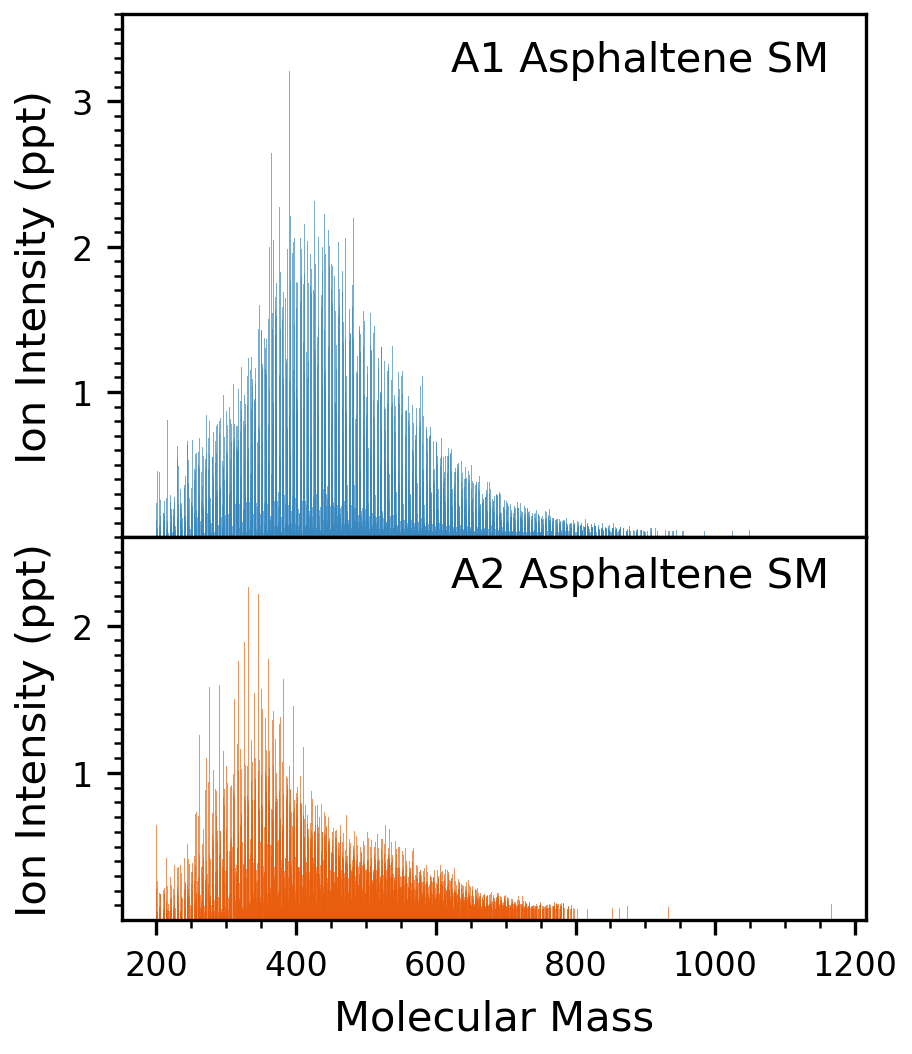
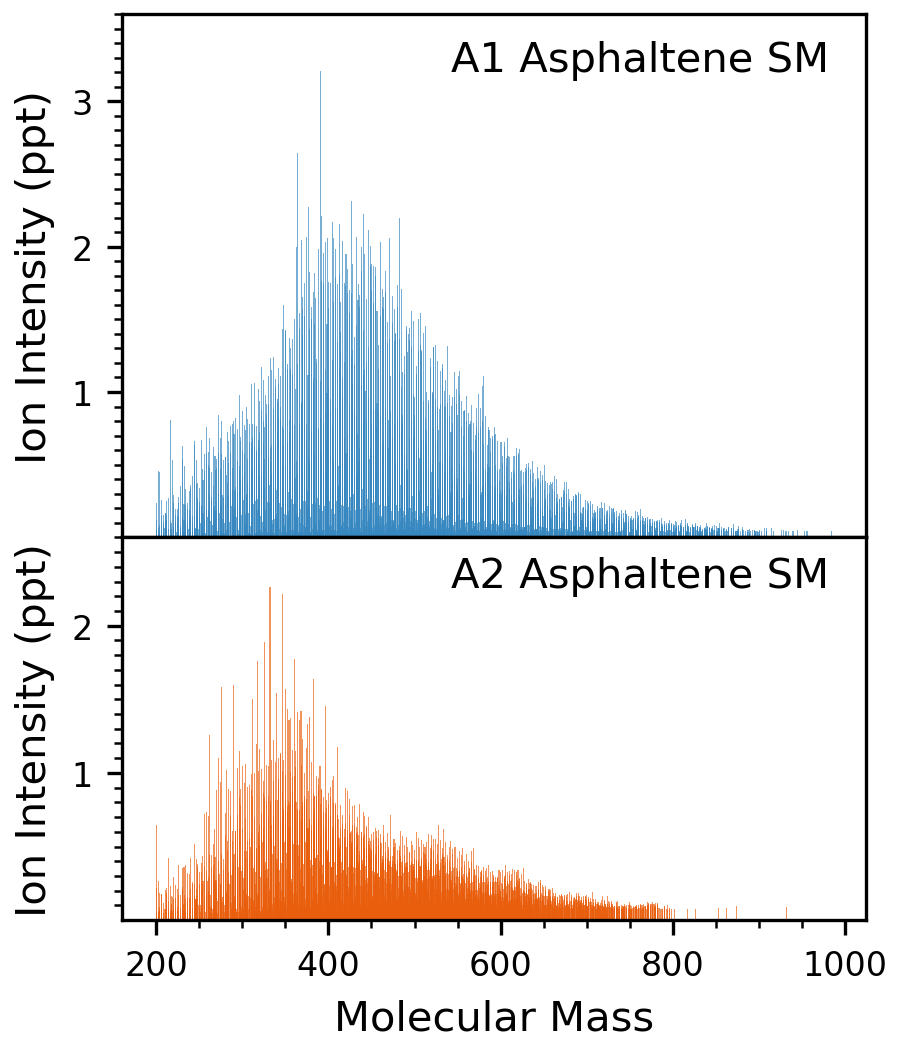
Updating figure settings

diff --git a/CreateBitumenFigure.py b/CreateBitumenFigure.py
@@ -31,57 +31,59 @@ import torch.nn as nn
 #                       'pickle_file': False,
 #                       'output_name': 'placeholder'}
 
-#SM_csv_folder_list = ['./AllCSV/',
-#                   './AllCSV/']
+SM_csv_folder_list = ['./AllCSV/',
+                   './AllCSV/']
 
-#SM_csv_file_list = ['L1_SM_nar.csv',
-#                 'S2_SM_nar.csv']
+SM_csv_file_list = ['L1_SM_nar.csv',
+                 'S2_SM_nar.csv']
 
-#SM_plot_label_list = ['A1 Asphaltene SM',
-#                   'A2 Asphaltene SM']
+SM_plot_label_list = ['A1 Asphaltene SM',
+                   'A2 Asphaltene SM']
 
-#SM_yaxis_label_list = ['Ion Intensity (ppt)',
-#                       'Ion Intensity (ppt)']
+SM_yaxis_label_list = ['Ion Intensity (ppt)',
+                       'Ion Intensity (ppt)']
 
-#SM_list_of_pal_dict = [VS.standard_blue_pal_dict,
-#                         VS.standard_orange_pal_dict]
+SM_list_of_pal_dict = [VS.standard_blue_pal_dict,
+                         VS.standard_orange_pal_dict]
 
-#SM_hrms_plot_dict = VS.cfgc_publication_hrms_plot_dict
+SM_hrms_plot_dict = VS.cfgc_publication_hrms_plot_dict
 
-#MSP.create_ms_bar_stack_from_file_list(list_of_csv_file_directories=SM_csv_folder_list,
-#                                       list_of_csv_file_names=SM_csv_file_list,
-#                                       list_of_plot_labels=SM_plot_label_list,
-#                                       list_of_yaxis_labels=SM_yaxis_label_list,
-#                                       list_of_palette_dicts=SM_list_of_pal_dict,
-#                                       hrms_plot_dict=SM_hrms_plot_dict)
+MSP.create_ms_bar_stack_from_file_list(list_of_csv_file_directories=SM_csv_folder_list,
+                                       list_of_csv_file_names=SM_csv_file_list,
+                                       list_of_plot_labels=SM_plot_label_list,
+                                       list_of_yaxis_labels=SM_yaxis_label_list,
+                                       list_of_palette_dicts=SM_list_of_pal_dict,
+                                       hrms_plot_dict=SM_hrms_plot_dict,
+                                       output_name='Starting Material HRMS.png')
 
-fig_2_csv_folder_list = ['.AllCSV/',
-                         './AllCSV/']
+#fig_2_csv_folder_list = ['./AllCSV/',
+#                         './AllCSV/']
 
-fig_2_csv_file_list = ['L1_SM_nar.csv',
-                       '19226_nar.csv']
+#fig_2_csv_file_list = ['L1_SM_nar.csv',
+#                       '19226_nar.csv']
 
-fig_2_plot_label_list = ['A1 Asphaltene SM',
-                         '49.8% iPrOH in DCM',
-                         'Absolute Difference']
+#fig_2_plot_label_list = ['A1 Asphaltene SM',
+#                         'After extraction with\n49.8% iPrOH/DCM',
+#                         'Absolute Difference']
 
-fig_2_yaxis_label_list = ['Ion Intensity (ppt)',
-                          'Ion Intensity (ppt)',
-                          'Absolute Diff (ppt)']
+#fig_2_yaxis_label_list = ['Ion Intensity (ppt)',
+#                          'Ion Intensity (ppt)',
+#                          '']
 
-fig_2_list_of_pal_dict = [VS.standard_blue_pal_dict,
-                         VS.standard_orange_pal_dict,
-                         VS.standard_green_pal_dict]
+#fig_2_list_of_pal_dict = [VS.standard_blue_pal_dict,
+#                         VS.standard_orange_pal_dict,
+#                         VS.standard_green_pal_dict]
 
-fig_2_hrms_plot_dict = VS.cfgc_publication_hrms_plot_dict
+#fig_2_hrms_plot_dict = VS.cfgc_publication_hrms_plot_dict
 
-MSP.create_ms_difference_stack(list_of_csv_file_directories=fig_2_csv_folder_list,
-                                list_of_csv_file_names=fig_2_csv_file_list,
-                                list_of_plot_labels=fig_2_plot_label_list,
-                                list_of_yaxis_labels=fig_2_yaxis_label_list,
-                                list_of_palette_dicts=fig_2_list_of_pal_dict,
-                                hrms_plot_dict=fig_2_hrms_plot_dict,
-                                difference_mode='absolute')
+#MSP.create_ms_difference_stack(list_of_csv_file_directories=fig_2_csv_folder_list,
+#                                list_of_csv_file_names=fig_2_csv_file_list,
+#                                list_of_plot_labels=fig_2_plot_label_list,
+#                                list_of_yaxis_labels=fig_2_yaxis_label_list,
+#                                list_of_palette_dicts=fig_2_list_of_pal_dict,
+#                                hrms_plot_dict=fig_2_hrms_plot_dict,
+#                                difference_mode='absolute',
+#                                output_name='extraction_diff.png')
 
 # MSP.create_predicted_vs_actual_stack(dataset_param_dict=dataset_param_dict,
 #                                      network_load_dict=network_load_dict,

diff --git a/VisualizationTools/MSPlots.py b/VisualizationTools/MSPlots.py
@@ -52,11 +52,14 @@ def load_single_ms(csv_file_directory,
     
     return hrms_dict
 
-def create_single_hrms_xy_pairs(hrms_dict):
+def create_single_hrms_xy_pairs(hrms_dict,
+                                mw_range = (200, 1000)):
     """
     A function that takes a HRMS dictionary of the standard format from BitumenCSVtoDict,
     and converts it into a list of (x, y) tuples for conversion into a visual plot of the spectra
 
+    Updated version: include a MW cut-off range to remove artifacts and very low intensity/spuriorus peaks
+    200 to 1000 is the default range, but can be changed as needed
     Parameters
     ----------
     hrms_dict : dictionary
@@ -72,7 +75,8 @@ def create_single_hrms_xy_pairs(hrms_dict):
 
     for specific_ion in hrms_dict:
         curr_fw = CTD.formula_to_mass(specific_ion)
-        hrms_ion_list.append((curr_fw, hrms_dict[specific_ion]))
+        if curr_fw >= mw_range[0] and curr_fw <= mw_range[1]:
+            hrms_ion_list.append((curr_fw, hrms_dict[specific_ion]))
     
     return hrms_ion_list
 
